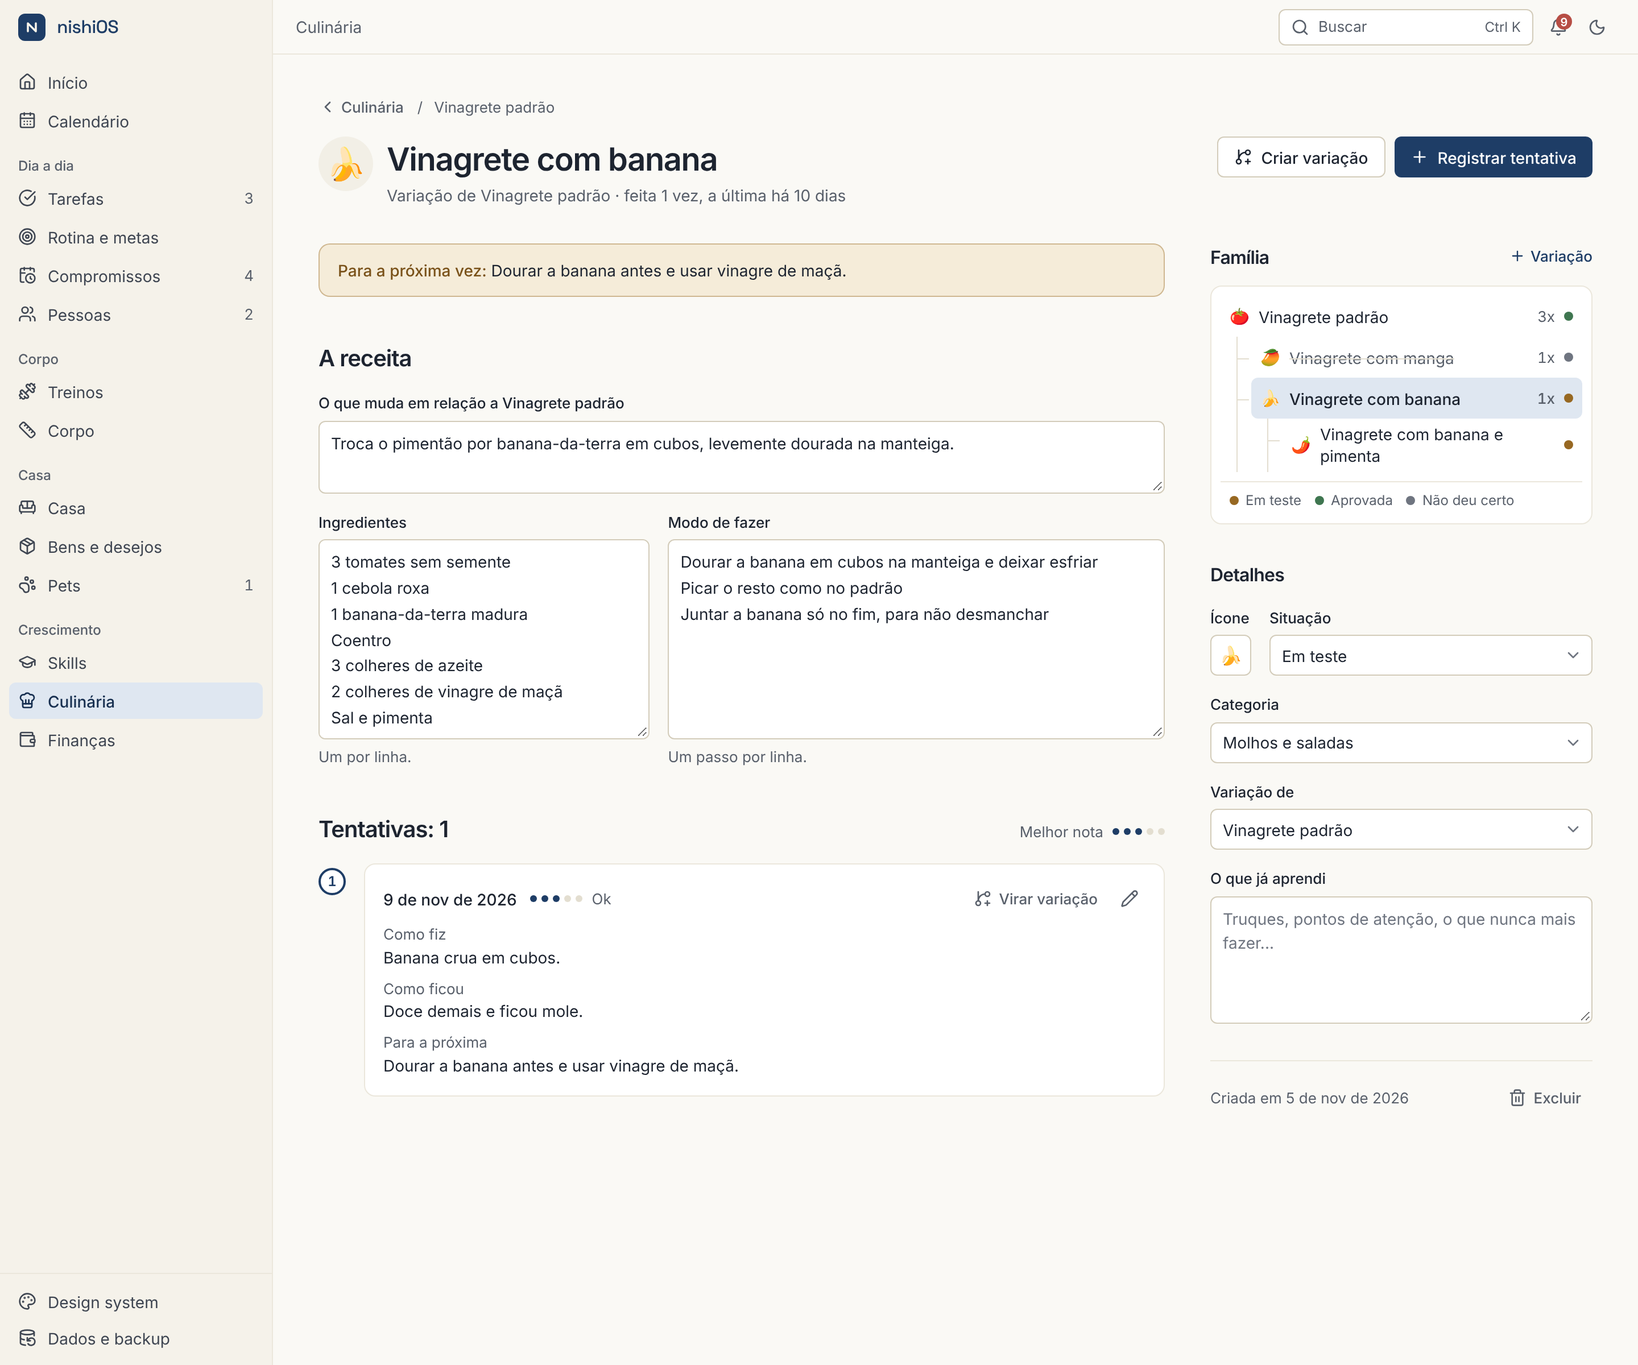
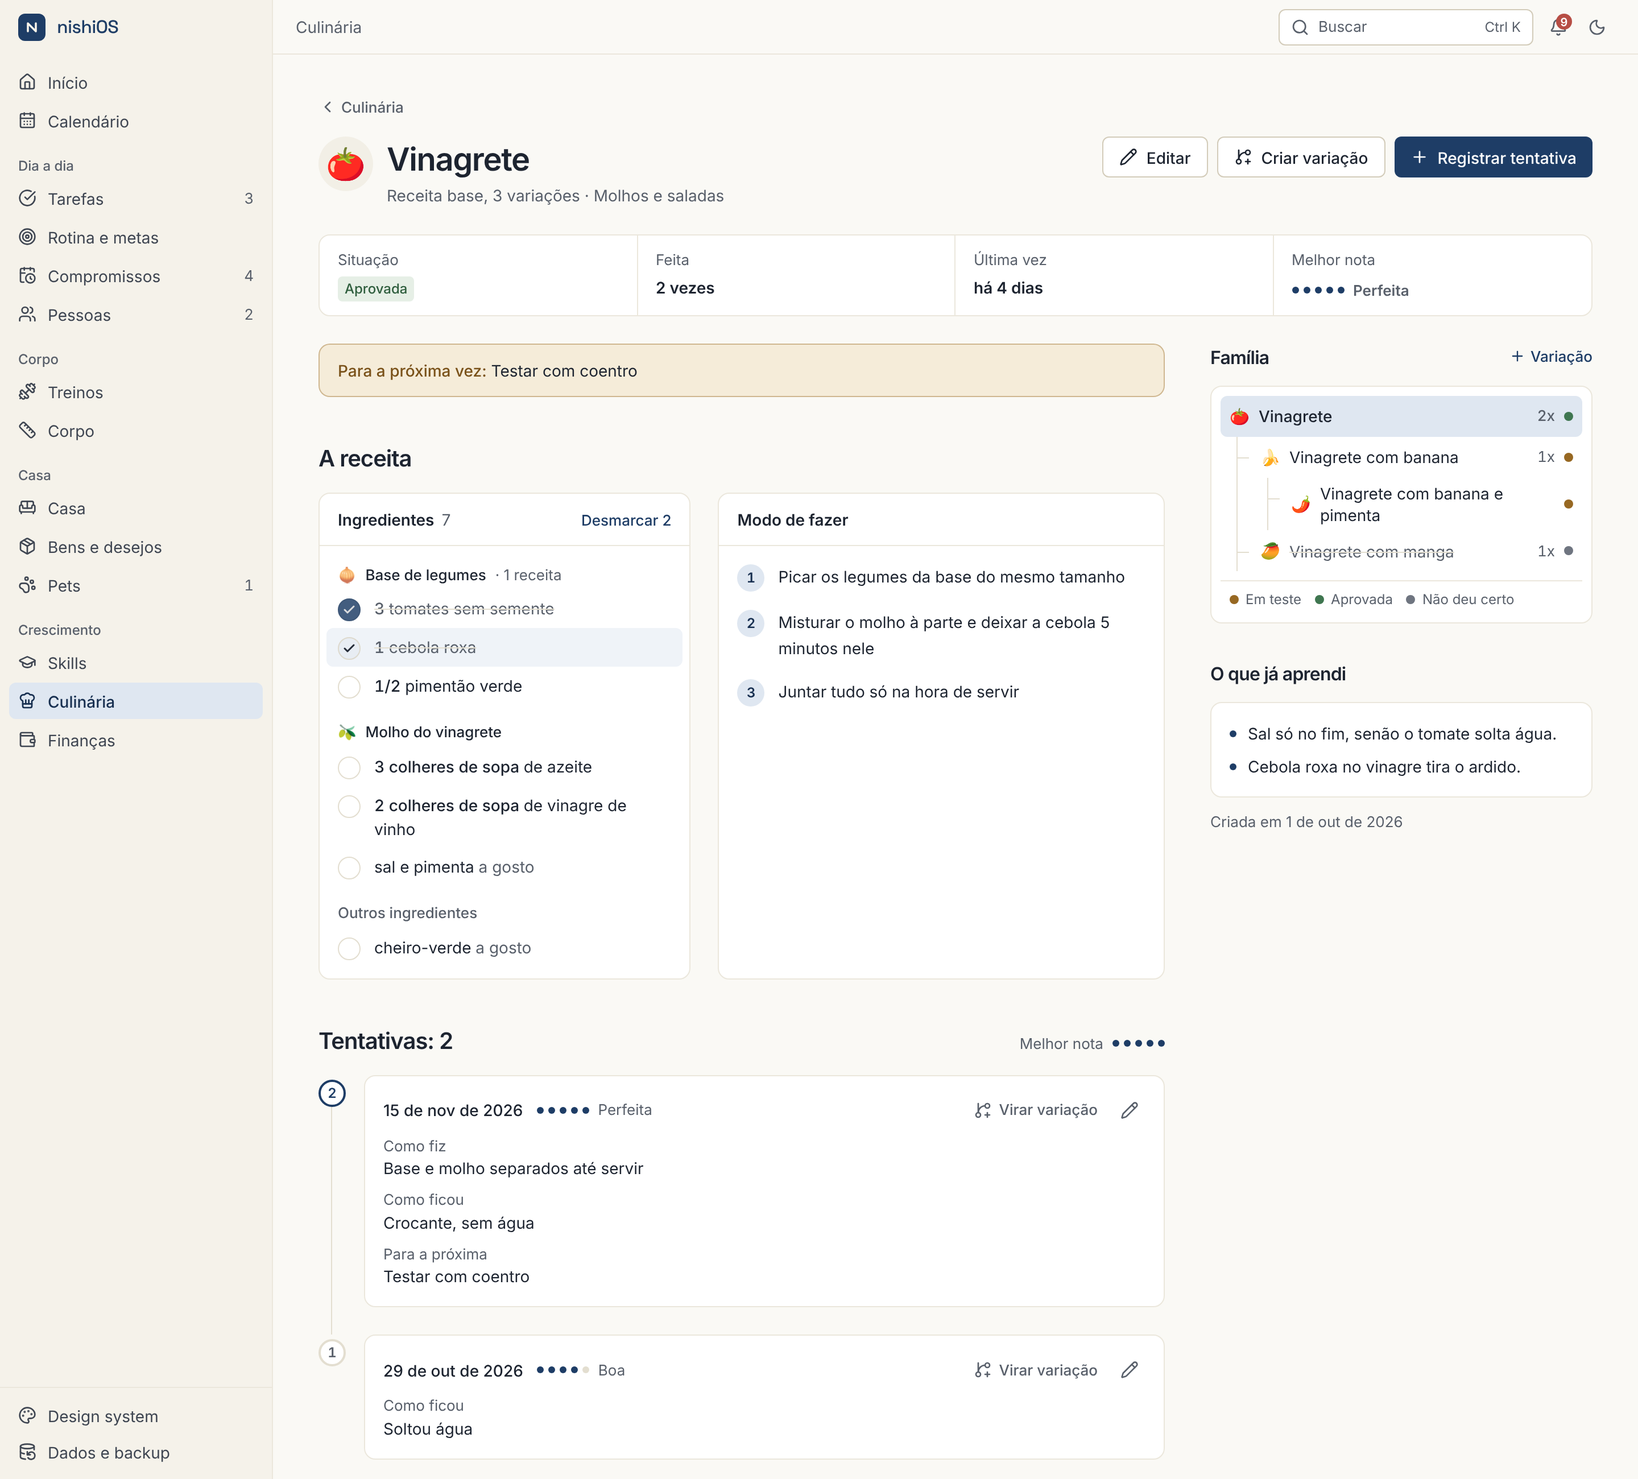
Culinária: página da receita para ler e cozinhar, com Editar à parte
Claude-Session: https://claude.ai/code/session_01CPBcsotghdx3fryCDb3DTs

diff --git a/src/modules/culinaria/RecipeDetail.tsx b/src/modules/culinaria/RecipeDetail.tsx
@@ -1,7 +1,7 @@
 import { useState } from "react";
-import { Link, useNavigate } from "react-router-dom";
-import { ChefHat, ChevronLeft, GitBranchPlus, Pencil, Plus, Trash2 } from "lucide-react";
-import { Dot } from "@/components/ui/Badge";
+import { Link, useNavigate, useSearchParams } from "react-router-dom";
+import { Check, ChefHat, ChevronLeft, GitBranchPlus, Pencil, Plus, Trash2 } from "lucide-react";
+import { Badge, Dot } from "@/components/ui/Badge";
 import { Button } from "@/components/ui/Button";
 import { EmptyState } from "@/components/ui/EmptyState";
 import { Field, Select, Textarea } from "@/components/ui/Field";
@@ -15,7 +15,8 @@ import { daysAgoLabel } from "@/modules/treinos/logic";
 import { FamilyTree } from "./FamilyTree";
 import { IngredientList } from "./IngredientList";
 import { PartsSection, UsedIn } from "./Parts";
-import { bestRating, family, lastCooked, lineage, nextTip, RATING_LABELS, rootOf, STATUS_META, STATUS_ORDER } from "./logic";
+import { RecipeView } from "./RecipeView";
+import { bestRating, family, lastCooked, lineage, lines, nextTip, RATING_LABELS, rootOf, STATUS_META, STATUS_ORDER } from "./logic";
 import { AttemptForm, StartForm, type AttemptState, type StartState } from "./RecipeForms";
 import { useCulinaria } from "./store";
 import { CATEGORIES, RECIPE_ICONS, type Recipe, type RecipeStatus } from "./types";
@@ -28,6 +29,12 @@ export function RecipeDetail({ recipe }: { recipe: Recipe }) {
   const [attemptForm, setAttemptForm] = useState<AttemptState>({ open: false });
   const [start, setStart] = useState<StartState>({ open: false });
   const now = today();
+  const [params, setParams] = useSearchParams();
+  // Abre para ler; "Editar" mostra os campos (e fica na URL, para uma receita nova já abrir editando).
+  const editing = params.get("editar") === "1";
+  const setEditing = (on: boolean) =>
+    setParams(on ? { r: recipe.id, editar: "1" } : { r: recipe.id }, { replace: true, preventScrollReset: true });
+  const meta = STATUS_META[recipe.status];
 
   const path = lineage(recipes, recipe);
   const parent = path.length > 1 ? path[path.length - 2] : undefined;
@@ -70,7 +77,8 @@ export function RecipeDetail({ recipe }: { recipe: Recipe }) {
       <header className="mt-3 flex flex-col gap-4 md:flex-row md:items-start md:gap-6">
         <div className="flex min-w-0 items-start gap-3 md:flex-1">
           <span className="flex size-12 shrink-0 items-center justify-center rounded-full bg-surface-muted text-2xl leading-none">{recipe.icon}</span>
-          <div className="-ml-2 flex min-w-0 flex-1 flex-col">
+          <div className={cn("flex min-w-0 flex-1 flex-col", editing && "-ml-2")}>
+            {editing ? (
             <textarea
               aria-label="Nome da receita"
               value={recipe.name}
@@ -86,14 +94,21 @@ export function RecipeDetail({ recipe }: { recipe: Recipe }) {
               }}
               className="field-sizing-content min-h-10 w-full min-w-0 resize-none rounded-md bg-transparent px-2 py-0.5 text-2xl font-semibold tracking-tight transition-colors duration-(--motion-fast) placeholder:text-subtle-foreground hover:bg-surface-hover focus:bg-surface-hover focus:outline-none"
             />
-            <p className="px-2 text-muted-foreground">
+            ) : (
+              <h1 className="py-0.5 text-2xl font-semibold tracking-tight break-words">{recipe.name || "Sem nome"}</h1>
+            )}
+            <p className={cn("text-muted-foreground", editing && "px-2")}>
               {parent ? <>Variação de {parent.name || "Sem nome"}</> : inFamily > 1 ? `Receita base, ${plural(inFamily - 1, "variação", "variações")}` : "Receita base"}
               {" · "}
-              {recipe.attempts.length === 0 ? "nunca feita" : `feita ${plural(recipe.attempts.length, "vez", "vezes")}, a última ${daysAgoLabel(last, now)}`}
+              {recipe.category}
             </p>
           </div>
         </div>
         <div className="grid grid-cols-2 gap-2 md:flex md:shrink-0">
+          <Button variant={editing ? "secondary" : "outline"} onClick={() => setEditing(!editing)} className="col-span-2 md:col-span-1">
+            {editing ? <Check /> : <Pencil />}
+            {editing ? "Pronto" : "Editar"}
+          </Button>
           <Button variant="outline" onClick={() => setStart({ open: true, parent: recipe })}>
             <GitBranchPlus />
             Criar variação
@@ -105,7 +120,27 @@ export function RecipeDetail({ recipe }: { recipe: Recipe }) {
         </div>
       </header>
 
-      <div className="mt-8 grid gap-x-10 gap-y-10 lg:grid-cols-[minmax(0,1fr)_21rem]">
+      {!editing && (
+        <dl className="mt-6 grid grid-cols-2 overflow-hidden rounded-lg border border-border bg-surface sm:grid-cols-4">
+          <Stat label="Situação">
+            <Badge tone={meta.tone}>{meta.label}</Badge>
+          </Stat>
+          <Stat label="Feita">{recipe.attempts.length === 0 ? "Nunca" : plural(recipe.attempts.length, "vez", "vezes")}</Stat>
+          <Stat label="Última vez">{last ? <span className="first-letter:uppercase">{daysAgoLabel(last, now)}</span> : "—"}</Stat>
+          <Stat label="Melhor nota">
+            {best > 0 ? (
+              <span className="inline-flex items-center gap-2">
+                <LevelDots value={best} label="Melhor nota" />
+                <span className="text-sm text-muted-foreground">{RATING_LABELS[best]}</span>
+              </span>
+            ) : (
+              "—"
+            )}
+          </Stat>
+        </dl>
+      )}
+
+      <div className={cn("grid gap-x-10 gap-y-10 lg:grid-cols-[minmax(0,1fr)_21rem]", editing ? "mt-8" : "mt-6")}>
         <div className="flex min-w-0 flex-col gap-10">
           {tip && (
             <p className="rounded-lg border border-warning/40 bg-warning-soft px-4 py-3">
@@ -115,6 +150,17 @@ export function RecipeDetail({ recipe }: { recipe: Recipe }) {
 
           <section>
             <h2 className="text-xl font-semibold tracking-tight">A receita</h2>
+            {!editing ? (
+              <>
+                {parent && recipe.change && (
+                  <p className="mt-4 rounded-lg border border-border bg-surface-muted/60 px-4 py-3">
+                    <span className="font-medium">O que muda em relação a {parent.name || "receita de origem"}:</span> {recipe.change}
+                  </p>
+                )}
+                <RecipeView recipe={recipe} onEdit={() => setEditing(true)} />
+              </>
+            ) : (
+            <>
             {parent && (
               <Field label={`O que muda em relação a ${parent.name || "receita de origem"}`} className="mt-4">
                 {(id) => (
@@ -148,6 +194,8 @@ export function RecipeDetail({ recipe }: { recipe: Recipe }) {
                 )}
               </Field>
             </div>
+            </>
+            )}
           </section>
 
           <section>
@@ -278,6 +326,33 @@ export function RecipeDetail({ recipe }: { recipe: Recipe }) {
             </div>
           </section>
 
+          {!editing && (
+            <section>
+              <h2 className="text-lg font-semibold tracking-tight">O que já aprendi</h2>
+              {recipe.lessons.trim() ? (
+                <ul className="mt-3 flex flex-col gap-2 rounded-lg border border-border bg-surface p-4">
+                  {lines(recipe.lessons).map((l, i) => (
+                    <li key={i} className="flex gap-2.5">
+                      <span aria-hidden className="mt-2 size-1.5 shrink-0 rounded-full bg-primary" />
+                      <span className="min-w-0 flex-1">{l}</span>
+                    </li>
+                  ))}
+                </ul>
+              ) : (
+                <button
+                  type="button"
+                  onClick={() => setEditing(true)}
+                  className="mt-3 w-full rounded-lg border border-dashed border-border-strong px-4 py-4 text-left text-sm text-muted-foreground hover:bg-surface-hover"
+                >
+                  Anote truques e pontos de atenção que você descobriu fazendo. Toque para editar.
+                </button>
+              )}
+              <p className="mt-3 text-sm text-muted-foreground">Criada em {formatDate(recipe.createdAt.slice(0, 10))}</p>
+            </section>
+          )}
+
+          {editing && (
+          <>
           <section className="flex flex-col gap-4">
             <h2 className="text-lg font-semibold tracking-tight">Detalhes</h2>
             <div className="grid grid-cols-[auto_minmax(0,1fr)] gap-4">
@@ -335,6 +410,8 @@ export function RecipeDetail({ recipe }: { recipe: Recipe }) {
               Excluir
             </Button>
           </div>
+          </>
+          )}
         </aside>
       </div>
 
@@ -342,8 +419,17 @@ export function RecipeDetail({ recipe }: { recipe: Recipe }) {
       <StartForm
         state={start}
         onOpenChange={(o) => setStart((s) => ({ ...s, open: o }))}
-        onCreated={(r) => navigate(`/culinaria?r=${r.id}`)}
+        onCreated={(r) => navigate(`/culinaria?r=${r.id}&editar=1`)}
       />
     </>
+  );
+}
+
+function Stat({ label, children }: { label: string; children: React.ReactNode }) {
+  return (
+    <div className="flex min-w-0 flex-col gap-1 border-border px-4 py-3 not-last:border-r max-sm:nth-2:border-r-0 max-sm:nth-[-n+2]:border-b">
+      <dt className="text-sm text-muted-foreground">{label}</dt>
+      <dd className="truncate font-semibold">{children}</dd>
+    </div>
   );
 }

diff --git a/src/modules/culinaria/RecipeView.tsx b/src/modules/culinaria/RecipeView.tsx
@@ -1,0 +1,157 @@
+import { useState } from "react";
+import { Link } from "react-router-dom";
+import { Check, ListOrdered, Pencil, ShoppingBasket } from "lucide-react";
+import { Button } from "@/components/ui/Button";
+import { cn } from "@/lib/cn";
+import { lines, partsOf } from "./logic";
+import { useCulinaria } from "./store";
+import type { Ingredient, Recipe } from "./types";
+
+/** "200 g", "3 colheres de sopa", "a gosto"; vazio quando não tem quantidade. */
+function measure(i: Ingredient): string {
+  return [i.amount, i.unit].filter(Boolean).join(" ");
+}
+
+/**
+ * A receita para ler e cozinhar: ingredientes que você vai marcando (só nesta visita, não fica salvo)
+ * e o modo de fazer em passos numerados.
+ */
+export function RecipeView({ recipe, onEdit }: { recipe: Recipe; onEdit: () => void }) {
+  const { recipes } = useCulinaria();
+  const [checked, setChecked] = useState<Set<string>>(new Set());
+  const parts = partsOf(recipes, recipe);
+  const steps = lines(recipe.steps);
+  const groups = [
+    ...parts.map((p) => ({ key: p.component.id, part: p.recipe, amount: p.component.amount, items: p.recipe.ingredients })),
+    ...(recipe.ingredients.length > 0 || parts.length === 0
+      ? [{ key: "proprios", part: undefined, amount: "", items: recipe.ingredients }]
+      : []),
+  ];
+  const total = groups.reduce((n, g) => n + g.items.length, 0);
+  const toggle = (id: string) =>
+    setChecked((s) => {
+      const next = new Set(s);
+      if (next.has(id)) next.delete(id);
+      else next.add(id);
+      return next;
+    });
+
+  return (
+    <div className="mt-4 grid gap-6 xl:grid-cols-[minmax(0,5fr)_minmax(0,6fr)]">
+      <div className="min-w-0 rounded-lg border border-border bg-surface">
+        <div className="flex items-baseline justify-between gap-3 border-b border-border px-4 py-3">
+          <h3 className="font-semibold">
+            Ingredientes
+            {total > 0 && <span className="ml-1.5 font-normal text-muted-foreground tabular-nums">{total}</span>}
+          </h3>
+          {checked.size > 0 ? (
+            <button type="button" onClick={() => setChecked(new Set())} className="text-sm font-medium text-primary hover:underline">
+              Desmarcar {checked.size}
+            </button>
+          ) : (
+            total > 0 && <span className="text-sm text-muted-foreground">Toque para marcar</span>
+          )}
+        </div>
+        {total === 0 && parts.length === 0 ? (
+          <Empty icon={ShoppingBasket} text="Nenhum ingrediente ainda." onEdit={onEdit} />
+        ) : (
+          <div className="flex flex-col py-1.5">
+            {groups.map((g) => (
+              <div key={g.key} className="px-1.5 py-1">
+                {(g.part || parts.length > 0) && (
+                  <p className="flex items-center gap-2 px-2.5 pt-1.5 pb-1 text-sm font-medium text-muted-foreground">
+                    {g.part ? (
+                      <>
+                        <span className="leading-none">{g.part.icon}</span>
+                        <Link to={`/culinaria?r=${g.part.id}`} className="min-w-0 truncate text-foreground hover:underline">
+                          {g.part.name || "Sem nome"}
+                        </Link>
+                        {g.amount && <span className="shrink-0 font-normal">· {g.amount}</span>}
+                      </>
+                    ) : (
+                      "Outros ingredientes"
+                    )}
+                  </p>
+                )}
+                {g.items.length === 0 ? (
+                  <p className="px-2.5 py-1 text-sm text-subtle-foreground">Sem ingredientes anotados nesta parte.</p>
+                ) : (
+                  <ul>
+                    {g.items.map((i) => {
+                      const on = checked.has(i.id);
+                      const m = measure(i);
+                      return (
+                        <li key={i.id}>
+                          <button
+                            type="button"
+                            aria-pressed={on}
+                            onClick={() => toggle(i.id)}
+                            className="flex w-full items-start gap-3 rounded-md px-2.5 py-1.5 text-left hover:bg-surface-hover"
+                          >
+                            <span
+                              aria-hidden
+                              className={cn(
+                                "mt-0.5 flex size-5 shrink-0 items-center justify-center rounded-full border transition-colors duration-(--motion-fast)",
+                                on ? "border-primary bg-primary text-primary-foreground" : "border-border-strong",
+                              )}
+                            >
+                              {on && <Check className="size-3" strokeWidth={3} />}
+                            </span>
+                            <span className={cn("min-w-0 flex-1", on && "text-muted-foreground line-through decoration-border-strong")}>
+                              {i.unit === "a gosto" ? (
+                                <>
+                                  {i.name} <span className="text-muted-foreground">a gosto</span>
+                                </>
+                              ) : (
+                                <>
+                                  {m && <span className="font-medium tabular-nums">{m} </span>}
+                                  {i.amount && i.unit.length > 2 ? "de " : ""}
+                                  {i.name}
+                                </>
+                              )}
+                            </span>
+                          </button>
+                        </li>
+                      );
+                    })}
+                  </ul>
+                )}
+              </div>
+            ))}
+          </div>
+        )}
+      </div>
+
+      <div className="min-w-0 rounded-lg border border-border bg-surface">
+        <h3 className="border-b border-border px-4 py-3 font-semibold">Modo de fazer</h3>
+        {steps.length === 0 ? (
+          <Empty icon={ListOrdered} text="Nenhum passo anotado ainda." onEdit={onEdit} />
+        ) : (
+          <ol className="flex flex-col gap-4 px-4 py-4">
+            {steps.map((s, i) => (
+              <li key={i} className="flex gap-3">
+                <span className="flex size-6 shrink-0 items-center justify-center rounded-full bg-secondary text-xs font-semibold text-secondary-foreground tabular-nums">
+                  {i + 1}
+                </span>
+                <p className="min-w-0 flex-1 leading-relaxed">{s}</p>
+              </li>
+            ))}
+          </ol>
+        )}
+      </div>
+    </div>
+  );
+}
+
+function Empty({ icon: Icon, text, onEdit }: { icon: typeof Check; text: string; onEdit: () => void }) {
+  return (
+    <div className="flex flex-col items-center gap-2 px-4 py-8 text-center">
+      <Icon className="size-5 text-muted-foreground" aria-hidden />
+      <p className="text-sm text-muted-foreground">{text}</p>
+      <Button variant="outline" size="sm" onClick={onEdit}>
+        <Pencil />
+        Editar receita
+      </Button>
+    </div>
+  );
+}

diff --git a/src/components/shell/CommandPalette.tsx b/src/components/shell/CommandPalette.tsx
@@ -278,7 +278,7 @@ function Results({ query, onDone }: { query: string; onDone: () => void }) {
           icon: <Glyph icon={ChefHat} />,
           run: () => {
             const r = culinaria.create({ name: text });
-            created("Receita criada", `/culinaria?r=${r.id}`);
+            created("Receita criada", `/culinaria?r=${r.id}&editar=1`);
           },
         },
       ],

diff --git a/src/modules/culinaria/CulinariaPage.tsx b/src/modules/culinaria/CulinariaPage.tsx
@@ -184,7 +184,7 @@ function RecipeList() {
       <StartForm
         state={start}
         onOpenChange={(o) => setStart((s) => ({ ...s, open: o }))}
-        onCreated={(r) => navigate(`/culinaria?r=${r.id}`)}
+        onCreated={(r) => navigate(`/culinaria?r=${r.id}&editar=1`)}
       />
     </>
   );

diff --git a/README.md b/README.md
@@ -121,6 +121,7 @@ Outros comandos: `npm run build` (checa os tipos e gera a versão final em `dist
   - Painel lateral com nível de 0 a 5, plano de estudo (passos e links, com progresso) e diário de aprendizado.
 - **Culinária**: uma área de aprendizado, não um livro de receitas.
   - Cada receita tem a lista de ingredientes (quantidade, unidade e ingrediente, um por linha da lista, com ordem ajustável; colar várias linhas no campo do ingrediente cria um item por linha), o modo de fazer (um passo por linha), situação (em teste, aprovada, não deu certo), categoria e "O que já aprendi".
+  - **Página da receita**: abre para ler e cozinhar, com um resumo (situação, quantas vezes fez, última vez, melhor nota), ingredientes agrupados por parte que você marca enquanto cozinha (a marcação não fica salva), modo de fazer em passos numerados e "O que já aprendi" em tópicos. "Editar" mostra os campos (`&editar=1` na URL); uma receita nova já abre editando.
   - **Partes** (receitas compostas): uma receita pode ser feita de outras, como o Vinagrete, que é a Base de legumes mais o Molho. "Adicionar parte" liga uma receita que já existe ou cria uma nova, com "Quanto vai" (1 receita, metade...). A receita mostra cada parte com os ingredientes dela; a parte mostra "Usada em". Cada parte tem as próprias tentativas e variações, e o app não deixa formar laço (o molho não pode usar o vinagrete que usa o molho). Variações copiam as partes.
   - **Tentativas**: cada vez que cozinhou, com data, nota de 0 a 5, como fez, como ficou e o que mudar na próxima vez. O último "para a próxima vez" aparece em destaque na receita e ao registrar a próxima tentativa.
   - **Variações**: "Criar variação" nasce da receita aberta já com os ingredientes e o modo de fazer dela, e guarda o que muda (Vinagrete padrão, depois Vinagrete com banana, depois com banana e pimenta). A família aparece em árvore na lista e na receita. Uma tentativa pode "Virar variação", e "Variação de" muda a receita de lugar na árvore. Excluir uma receita passa as variações dela para a de cima.
